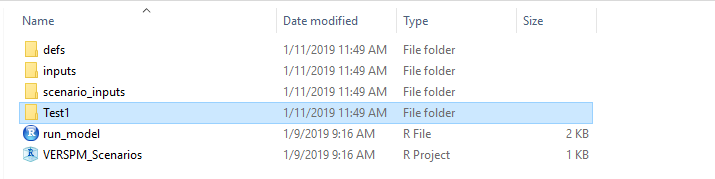
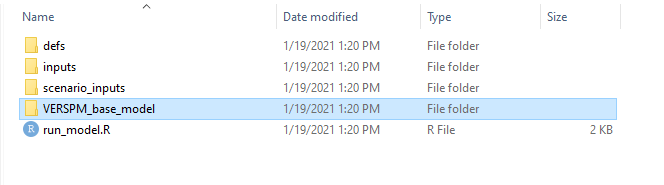
Adding example to plot VE-State results
And fix more VERSPM tutorial paths

diff --git a/tutorials/verspm/Running_VERSPM.md b/tutorials/verspm/Running_VERSPM.md
@@ -16,83 +16,53 @@ The VisionEval installer is available [here](https://visioneval.org/category/dow
 ## Running VE-RSPM Base Scenario
 
 ### Preparing inputs
-Once VisionEval and VE-RSPM have been installed, a directory with sample data will be available at `../models/VE-RSPM/Test1`. (Note `..` refers to the parent directory of the unzipped installer file). 
+Once VisionEval and VE-RSPM have been installed, a directory with sample data will be available at `../models/VERSPM/`. (Note `..` refers to the parent directory of the unzipped installer file). 
 
 The `VE-RSPM` directory serves the dual purposes of providing sample data and serving as a template for local modification to other locations. 
 
-The `../models/VE-RSPM/Test1` directory contains sample input files for the Rogue Valley region in Oregon. These inputs can be modified or replaced to investigate the impacts of policy changes or to model a different region.  The folder contains multiple files and subfolders:
+The `../models/VERSPM/` directory contains sample input files for the Rogue Valley region in Oregon. These inputs can be modified or replaced to investigate the impacts of policy changes or to model a different region.  The folder contains multiple files and subfolders:
 
-<img align="center" width="800" border=1 src="https://github.com/visioneval/VisionEval-Docs/blob/master/tutorials/verspm/images/VERSPM_Folder.PNG">
+<img align="center" width="800" border=1 src="images/VERSPM_Folder.PNG">
 
 `run_model.R` is the core script for running the model. It consists of calls to the modules that make up the model. The user may modify the script to call the  desired modules.
 
-<img align="center" width="800" border=1 src="https://github.com/visioneval/VisionEval-Docs/blob/master/tutorials/verspm/images/run_model.PNG">
+<img align="center" width="800" border=1 src="images/run_model.PNG">
 
 The `defs` directory contains five model definition files which is introduced in [Model Definition Files](Inputs_and_Parameters.md)
 
-<img align="center" width="700" border=1 src="https://github.com/visioneval/VisionEval-Docs/blob/master/tutorials/verspm/images/model_definitions.PNG">
+<img align="center" width="700" border=1 src="images/model_definitions.PNG">
 
 The `inputs` directory contains a number of `CSV` and `JSON` files that provide inputs for the modules. Each module specifies what input files it needs. If you would like to know 
 the description of each input file and how you can change those files for your desired testing see [Inputs_and_Parameters](Inputs_and_Parameters.md/#input-files)
-<img align="center" width="800" border=1 src="https://github.com/visioneval/VisionEval-Docs/blob/master/tutorials/verspm/images/inputs.PNG">
+<img align="center" width="800" border=1 src="images/inputs.PNG">
 
-There is complete set of test data for RVMPO which you will find out in the Test1 folder. You can use those data to test VERRSPM run.
+There is complete set of test data for RVMPO which you will find out in the VERSPM_base_model folder. You can use those data to test VERRSPM run.
 
- the `../models/VE-RSPM/Test1` directory contains sample input files for RV MPO, Oregon.  These can be modified or replaced to investigate the impacts of policy changes or to model a different region.  
+ the `../models/VERSPM/` directory contains sample input files for RV MPO, Oregon.  These can be modified or replaced to investigate the impacts of policy changes or to model a different region.  
 
-To modify a scenario, the appropriate input files are edited.  For example, to change the flat rate tax of vehicles for future [`azone_hh_veh_own_taxes.csv`](link) would be modified in Excel, LibreOffice, or a text editor to change the `VehOwnFlatRateFee` of year 2038
+To modify a scenario, the appropriate input files are edited.  For example, to change the flat rate tax of vehicles for future [`azone_hh_veh_own_taxes.csv`](https://github.com/visioneval/VisionEval/blob/master/sources/modules/VEHouseholdVehicles/inst/module_docs/CalculateVehicleOwnCost.md#azone_hh_veh_own_taxescsv) would be modified in Excel, LibreOffice, or a text editor to change the `VehOwnFlatRateFee` of year 2038
 
-<img align="center" width="800" border=1 src="https://github.com/visioneval/VisionEval-Docs/blob/master/tutorials/verspm/images/modify_input.PNG">
+<img align="center" width="400" border=1 src="images/modify_input.PNG">
 
 ### Running the Model
 
-There are multiple ways to run VisionEval models. VisionEval models can be run via the command line or via the GUI, and can be run for one scenario or multiple scenarios in parallel. Results can be viewed in tabular form or with the interactive VEScenarioViewer.
+There are multiple ways to run VisionEval models. VisionEval models can be run via the command line directly or using `openModel`, and can be run for one scenario or multiple scenarios in parallel. Results can be viewed in tabular form or with the interactive `VEScenarioViewer`.
 
-#### Running VE-RSPM from the R command line
-
-1. Start R (or Rstudio) and make sure your directory is set to the installer folder
-2. Run the following commands:
+1. Start R (or RStudio) and make sure your directory is set to the installer folder. The easiest way to do this is to double-click `VisionEval.Rproj`, which will be associated with RStudio if that is installed correctly.
+2. You should see 'Welcome to VisionEval!' on the RStudio console. Then run the following commands:
 
 ```
-source("Install-VisionEval.R")
-load("RunVisionEval.Rdata")
-VE-RSPM()
+rspmmod <- openModel('VERSPM')
+rspmmod$run()
 ```
 
-By defult this will run the model in `../models/VE-RSPM/Test1` directory. It will be dicussed how to run scnerios in another folder later in this tutorial.
+By default this will run the model in `../models/VERSPM/` directory. The default model is for the Rouge Valley (Oregon) MPO, for 2010 and 2038. 
 
-After running the scipt you will see how the modules will be running in order.
+After running the script you will see how the modules will be running in order.
 
-#### Running VE-RSPM from GUI
 
-1. Start R (or Rstudio) and make sure your directory is set to the installer folder
-2. Run the following commands:
+The model run will take approximately 10-15 minutes. Once complete, the output are exported to `../models/VERSPM/outputs` in 3 different zone levels.
 
-```
-source("Install-VisionEval.R")
-load("RunVisionEval.Rdata")
-vegui()
-```
-
-By defult this will run the model in `../models/VE-RSPM/Test1` directory. It will be dicussed how to run scnerios in another folder later in this tutorial.
-
-After running the script a new window will pop up: 
-
-<img align="center" width="500" border=1 src="https://github.com/visioneval/VisionEval-Docs/blob/master/tutorials/verspm/images/GUI.PNG">
-
-click the `Select Scenario run script` and go to `../models/VE-RSPM/Test1/run_model.R` . After clicking on the script you will see a list of all running modules in `Scenario tab`
-
-<img align="center" width="800" border=1 src="https://github.com/visioneval/VisionEval-Docs/blob/master/tutorials/verspm/images/GUI2.PNG">
-
-Go to `Inputs` tab to view all the inputs.
-
-<img align="center" width="800" border=1 src="https://github.com/visioneval/VisionEval-Docs/blob/master/tutorials/verspm/images/GUI3.PNG">
-
-Finally go to `Run` and click `Run Model` button to start running the model
-
-<img align="center" width="500" border=1 src="https://github.com/visioneval/VisionEval-Docs/blob/master/tutorials/verspm/images/GUI4.PNG">
-
-Once run is finished output are exported to `../models/VE-RSPM/Test1/outputs` in 3 different zone levels
 
 ## Running VE-RSPM Multiple Scenarios
 
@@ -100,23 +70,23 @@ Strategic planning often requires the assessment of large numbers of future scen
 The VEScenarios module provides the capability to quickly set up, run, and visualize large numbers of VE-RSPM scenarios using a baseline scenario combined with multiple changes to model inputs. 
 After going to `../models/VERSPM_Scenarios` folder, you will see multiple subfolders and scripts.
 
-<img align="center" width="800" border=1 src="https://github.com/visioneval/VisionEval-Docs/blob/master/tutorials/verspm/images/multiple_scenarios.PNG">
+<img align="center" width="600" border=1 src="images/multiple_scenarios.PNG">
 
 
-#### Test1
+#### VERSPM_base_model
 
  This directory contains the inputs and R script necessary to run the base scenario, as described above.
  
 #### defs
 
-`VE-RSPM_Scenarios/defs` directory contains the same files as the `Test1/defs` directory, but the `model_parameters.json` file differs between `Test1/defs` and`VE-RSPM_Scenarios/defs` diffiers in that the latter 
+`VE-RSPM_Scenarios/defs` directory contains the same files as the `VERSPM_base_model/defs` directory, but the `model_parameters.json` file differs between `VERSPM_base_model/defs` and`VE-RSPM_Scenarios/defs` differs in that the latter 
 version contains just four parameters specifying the locations of inputs and outputs, as well as the number of processors (NWorkers) to use. The default is 4, but be sure to set this to a number appropriate to your machine.
 
 ```
 [
   {
     "NAME": "ModelFolder",
-    "VALUE": "Test1",
+    "VALUE": "VERSPM_base_model",
     "TYPE": "character",
     "UNITS": "NA",
     "PROHIBIT": "NA",
@@ -154,8 +124,8 @@ version contains just four parameters specifying the locations of inputs and out
 
 #### Inputs
 
-The `inputs` folder in `VERRSPM_Scenarios` also differs from that in `Test1`.  In this case, there is only a single file specifying the output data tables that should be exported as CSV files in the `outputs` directory.
-<img align="center" width="300" border=1 src="https://github.com/visioneval/VisionEval-Docs/blob/master/tutorials/verspm/images/VERSPM_scenarios.PNG">
+The `inputs` folder in `VERRSPM_Scenarios` also differs from that in `VERSPM_base_model`.  In this case, there is only a single file specifying the output data tables that should be exported as CSV files in the `outputs` directory.
+<img align="center" width="300" border=1 src="images/VERSPM_scenarios.PNG">
 
 #### scenario_inputs
 
@@ -165,17 +135,17 @@ Scenario inputs consist of eleven folders, one for each of a particular category
 
 Within each folder, there are subfolders containing input files, one per specific input. Each of the folders must contain at least one subfolder named "1", defining the input for the base scenario.  Subsequent numbered folders contain input files modifying parameters of interest, as shown in the screenshots below:
 
-Model inputs not otherwise specified in the `scenario_inputs` directory are drawn from files in `Test1/defs` and `Test1/inputs`
-<img align="center" width="800" border=1 src="https://github.com/visioneval/VisionEval-Docs/blob/master/tutorials/verspm/images/VERSPM_scenarios2.PNG">
+Model inputs not otherwise specified in the `scenario_inputs` directory are drawn from files in `VERSPM_base_model/defs` and `VERSPM_base_model/inputs`
+<img align="center" width="800" border=1 src="images/VERSPM_scenarios2.PNG">
 
 The subfolder names and scenario inputs are defined as follows (input file to modify given in parentheses):
 
   - B - Bicycles (`azone_prop_sov_dvmt_diverted.csv`) : Network improvements, incentives, and technologies that encourage bicycling and other light-weight vehicle travel
-    - 1 - Base bicyling percentage of SOV tours less than 20 miles (9.75%)
+    - 1 - Base bicycling percentage of SOV tours less than 20 miles (9.75%)
     - 2 - Increase diversion of SOV tours to 20%
   - C - Vehicle Travel Cost (`azone_hh_veh_own_taxes.csv`) and (`region_prop_externalities_paid.csv`) : Combination of fuel prices and charges to pay for roadway costs and possibly externalities
     - 1 - No change in fuel prices or increase in roadway or externality charges
-    - 2 - Keep the vehicle ownerhsip cost the same
+    - 2 - Keep the vehicle ownership cost the same
     - 3 - Higher climate cost and pay as you drive insurance
   - D - DemandManagement (`bzone_travel_demand_mgt.csv`) : Programs to encourage less private vehicle travel
     - 1 - Baseline implementation of ITS
@@ -208,7 +178,7 @@ The subfolder names and scenario inputs are defined as follows (input file to mo
     - 1 - Base
     - 2 - Light truck proportion at 35% of the fleet and the average vehicle age at 8 years
 
-Running all of these input values will result in 10368 total scenarios, which would take days to run.  User usallly does not need all the possible combinations of scnerios. 
+Running all of these input values will result in 10368 total scenarios, which would take days to run.  User usually does not need all the possible combinations of scenarios. 
 VE-RSPM Scenarios are grouped in 5 different categories which you can modify in `category_config.json` :
 
 * **Community Design** :  Policies that seek to enable shorter trips and alternate modes such as promotion of mixed use land use, transit service, bicycling, and parking management. ( group of L, B, P , T ) 
@@ -217,7 +187,7 @@ VE-RSPM Scenarios are grouped in 5 different categories which you can modify in 
 * **Vehicles/Fuels** : Factors representing changes to future vehicles and fuels ( group of V, F ) 
 * **Income** : Context factor on the assumed growth of statewide average per capita income ( I )
 
-Depending on how many scenarios exist in each of these five groups, total number of scenariso will be determined.
+Depending on how many scenarios exist in each of these five groups, total number of scenarios will be determined.
 
 To test the multi-scenario capability in less time, reduce the number of scenario inputs by deleting some of the numbered folders, making sure to retain the "1" folder for each of the six options.
 Note that if you change the directory structure in scenario_inputs, you will have to change `category_config.json` and `scenario_config.json` to match the new directory structure.
@@ -225,22 +195,22 @@ Note that if you change the directory structure in scenario_inputs, you will hav
 To modify the scenario inputs, the numbered subdirectories can be created or deleted. Each directory contains a single input file containing the modified model parameter.
 
 #### run_model.R
-The `run_model.R` script in this case runs four modules that create the scenarios from the inputs, runs each and combines the results.
-<img align="center" width="800" border=1 src="https://github.com/visioneval/VisionEval-Docs/blob/master/tutorials/verspm/images/VERSPM_scenarios3.PNG">
 
-Similar to base case the model can be run using R or GUI. To run the model using R, run the following commands:
+The `run_model.R` script in this case runs four modules that create the scenarios from the inputs, runs each and combines the results.
+<img align="center" width="600" border=1 src="images/VERSPM_scenarios3.PNG">
+
+Similar to base case the model can be run in the command line. To run the model using R, run the following commands:
 
 ```
-source("Install-VisionEval.R")
-load("RunVisionEval.Rdata")
-VE-RSPM(scenarios=TRUE)
+scenario_rspm <- openModel('VERSPM_Scenarios')
+scenario_rspm$run()
 ```
 
 After starting the run,model automatically builds scenarios by creating all possible combinations of settings found in scenario_inputs. The scenarios to run are found in the newly created scenarios directory.
 
-<img align="center" width="800" border=1 src="https://github.com/visioneval/VisionEval-Docs/blob/master/tutorials/verspm/images/scenarios.PNG">
+<img align="center" width="800" border=1 src="images/scenarios.PNG">
 
-Each directory is essentially a copy of Test1, with inputs modified as specified in the scenario_inputs directory. Each scenario directory contains the results of a model run with its own inputs, datastore, and log file.
+Each directory is essentially a copy of VERSPM_base_model, with inputs modified as specified in the scenario_inputs directory. Each scenario directory contains the results of a model run with its own inputs, datastore, and log file.
 
 When finished, the VE-RSPM Scenario Viewer will automatically open to display the results. To find out more on exported metrics see [Performance Metrics](Performance.md)
 

diff --git a/tutorials/ve-state/Running_VESTATE.md b/tutorials/ve-state/Running_VESTATE.md
@@ -66,12 +66,11 @@ By default this will run the model in `../models/VE-State/` directory. The defau
 
 After running the script you will see how the modules will be running in order.
 
-
 The model run will take approximately 45 minutes. Once complete, the output are exported to `../models/VE-State/outputs` in 3 different zone levels.
 
 ## Querying results
 
-To extract all results to .csv files, run
+To extract all results to .csv files, run:
 
 ```
 statemod$extract()
@@ -89,17 +88,50 @@ Write output file: /models/VE-State/output/Bzone_2010_1_2021-03-02_153010.csv
 [...]
 ```
 
-For a state-wide model, the `Household` tables in particular can be quite large. 
+For a state-wide model, the `Household` and `Vehicle` tables in particular can be quite large, and this full result extraction might take several minutes. 
+
+To extract just one field, for example DVMT at the household level for 2010 and 2040, first select just the Household table using the `tablesSelected` method:
+
+```
+statemod$tablesSelected <- 'Household'
+```
+
+Then select the `Dvmt` field:
+
+```
+statemod$fieldsSelected <- 'Dvmt'
+```
+
+Extract the result to a list of data frames for plotting, rather than to a .csv file. Some manipulation of the list can be done to put the fields in one data frame for plotting, for example:
+
+```
+hh_dvmt <- vestate$extract(saveTo = F)
+hh_dvmt <- unlist(hh_dvmt)
+year <- names(hh_dvmt)
+year <- ifelse(grepl('2010', year), '2010', '2040')
+hh_dvmt <- data.frame(year, Dvmt = hh_dvmt
+```
+
+Plot using the `ggplot2` library, for example:
+
+```
+ggplot(hh_dvmt, aes(x = Dvmt, fill = year)) + 
+  geom_histogram() + 
+  ylab('Number of Households') +
+  ggtitle('Distribution of DVMT by VE-State for Oregon')
+```
+
+<img align="center" width="600" border=1 src="images/VEState_HH_DVMT_Distribution.png">
+
 
 Other query methods are described in the [Getting Started documentation](https://github.com/VisionEval/VisionEval/wiki/Getting-Started-v2#extracting-model-results). 
  
 ### Scenarios
 
-To modify a scenario, the appropriate input files are edited.  For example, to change the flat rate tax of vehicles for future [`azone_hh_veh_own_taxes.csv`](link) would be modified in Excel, OpenOffice, or a text editor to change the `VehOwnFlatRateFee` of year 2038.
+To modify a scenario, the appropriate input files are edited.  For example, to change the flat rate tax of vehicles for future [`azone_hh_veh_own_taxes.csv`](https://github.com/visioneval/VisionEval/blob/master/sources/modules/VEHouseholdVehicles/inst/module_docs/CalculateVehicleOwnCost.md#azone_hh_veh_own_taxescsv) would be modified in Excel, LibreOffice, OpenOffice, or a text editor to change the `VehOwnFlatRateFee` of year 2038.
 
 <img align="center" width="600" border=1 src="../verspm/images/modify_input.PNG">
- - Steps to describe creating scenarios
- - Steps to use Scenario Viewer 
 
+Create scenarios using the same steps as for [VE-RSPM]('../verspm/Running_VERSPM.md')
 
 Return to [Tutorial](Main.md). 
